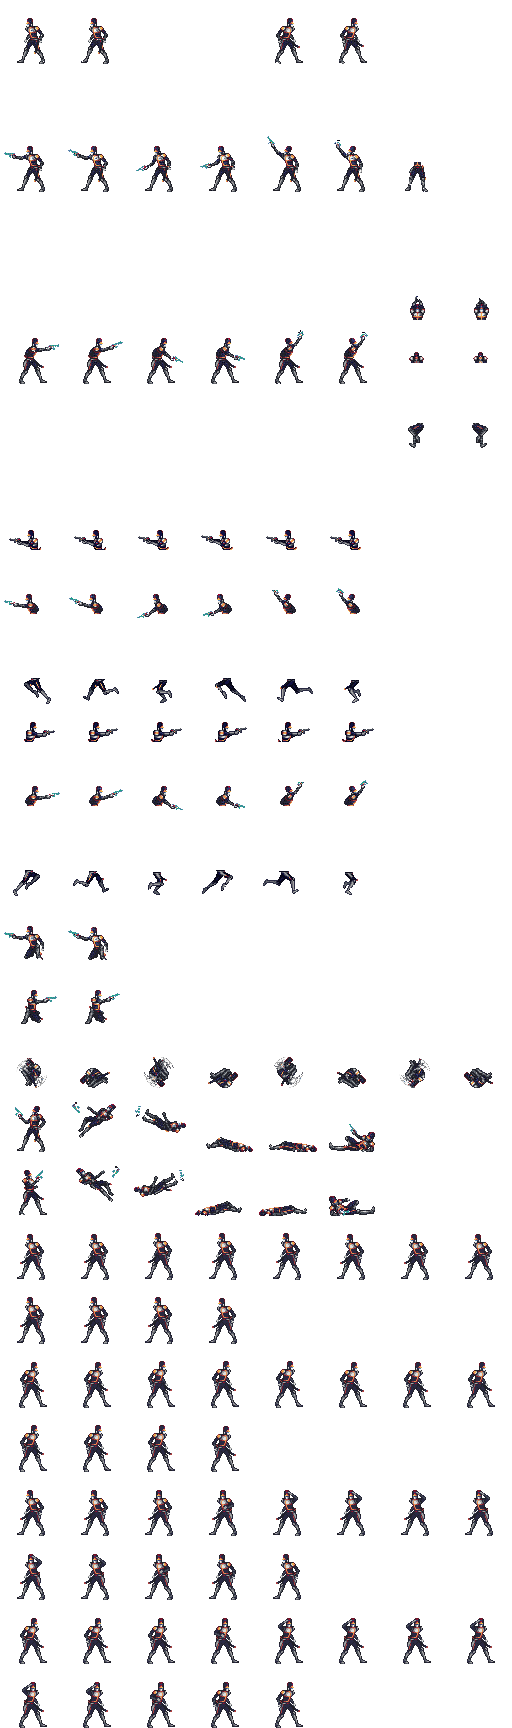
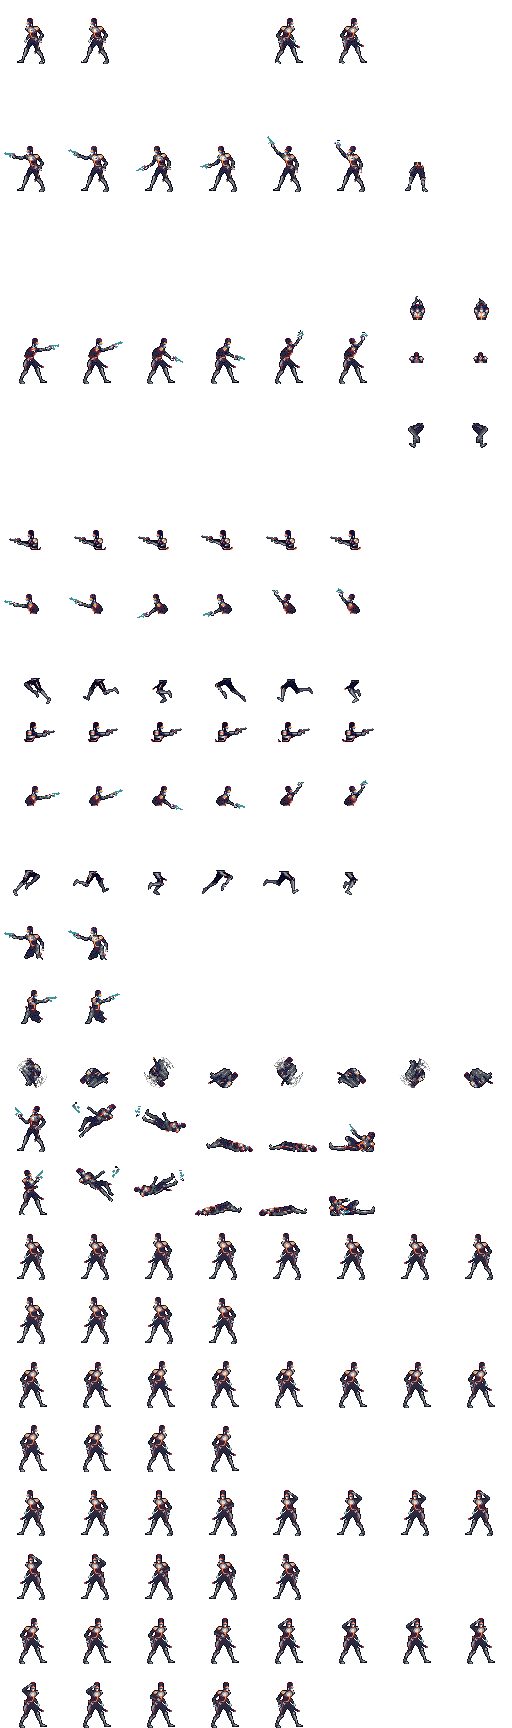
Unify Saber's sprite colors and clean clothing speckles

diff --git a/tools/saber_art.py b/tools/saber_art.py
@@ -1,0 +1,55 @@
+"""Shared source palette and color cleanup for all of Saber's sprite poses.
+
+Keep the source palette fixed: deriving it from the destination PNG made video
+recovery depend on whichever edits were already present in that file. Neutral
+gray (33,33,41) is common in the old reconstruction/idle footage, whereas the
+clean run uses (8,8,25) outlines and navy cloth. Resolve that gray by material
+before snapping every pose to the same final color treatment.
+"""
+from collections import Counter
+
+import numpy as np
+
+SOURCE_PALETTE = np.array([
+    (8, 8, 25), (16, 16, 66), (33, 33, 41), (41, 41, 66),
+    (49, 58, 107), (74, 82, 90), (90, 132, 173), (107, 107, 115),
+    (165, 165, 165), (222, 222, 222), (247, 247, 247),
+    (107, 25, 41), (173, 66, 66), (165, 8, 49),
+    (230, 148, 82), (239, 181, 82), (25, 165, 132),
+], dtype=float)
+
+NAVY = {(41, 41, 66), (16, 16, 66), (49, 58, 107)}
+SILVER = {(74, 82, 90), (107, 107, 115), (165, 165, 165),
+          (222, 222, 222), (247, 247, 247), (90, 132, 173)}
+RED = {(107, 25, 41), (173, 66, 66), (165, 8, 49)}
+
+
+def clean_colors(cell):
+    """Resolve dull outlines/interior gray flecks without changing alpha or pose.
+
+Read neighbors from the original cell so traversal order cannot affect color.
+Only the neutral gray is replaced: the run's actual navy shading, metal
+highlights, red accents, face, gun and black outline pixels remain intact.
+Three neighbors in the same material identify armor/red/cloth speckles;
+otherwise an interior dark pixel gets the native run's main navy cloth shade.
+"""
+    source = np.asarray(cell, dtype=np.uint8)
+    out = source.copy()
+    mask = source[:, :, 3] > 0
+    height, width = mask.shape
+    neutral = mask & np.all(source[:, :, :3] == (33, 33, 41), axis=2)
+    for y, x in np.argwhere(neutral):
+        edge = any(not (0 <= y + dy < height and 0 <= x + dx < width and mask[y + dy, x + dx])
+                   for dy, dx in ((-1, 0), (1, 0), (0, -1), (0, 1)))
+        if edge:
+            color = (8, 8, 25)
+        else:
+            nearby = [tuple(source[yy, xx, :3])
+                      for yy in range(max(0, y - 1), min(height, y + 2))
+                      for xx in range(max(0, x - 1), min(width, x + 2))
+                      if (yy, xx) != (y, x) and mask[yy, xx]]
+            votes = [[v for v in nearby if v in group] for group in (NAVY, SILVER, RED)]
+            pick = max(range(3), key=lambda i: len(votes[i]))
+            color = Counter(votes[pick]).most_common(1)[0][0] if len(votes[pick]) >= 3 else (41, 41, 66)
+        out[y, x, :3] = color
+    return out

diff --git a/tools/build_saber_idle.py b/tools/build_saber_idle.py
@@ -5,7 +5,8 @@ Usage: python3 tools/build_saber_idle.py [video.mp4]
 Requires ffmpeg, Pillow and NumPy. The clip is 10 fps, with native pixels
 enlarged 4x. Decode every frame without frame-rate conversion, take the median
 of each 4x4 block to suppress H.264 noise, key the green background, and snap
-foreground colors to Saber's existing palette. Keep the full 64x64 canvas:
+foreground colors to Saber's shared source palette, then apply the same outline
+and clothing cleanup as the run and older poses. Keep the full 64x64 canvas:
 cropping/recentering each pose would erase the breathing motion and foot anchor.
 Cells 0..151 are preserved; left-facing cells mirror the native right footage.
 """
@@ -17,6 +18,8 @@ import tempfile
 import numpy as np
 from PIL import Image
 
+from saber_art import SOURCE_PALETTE, clean_colors
+
 ROOT = Path(__file__).resolve().parent.parent
 
 
@@ -24,8 +27,7 @@ def main():
     video = Path(sys.argv[1]) if len(sys.argv) > 1 else ROOT / "video.twimg.com_tweet_video_DhBgC6xWsAAgACs.mp4"
     sheet_path = ROOT / "assets/saber.png"
     original = Image.open(sheet_path).convert("RGBA").crop((0, 0, 512, 1216))
-    pixels = np.asarray(original)
-    palette = np.unique(pixels[pixels[:, :, 3] != 0, :3], axis=0).astype(float)
+    palette = SOURCE_PALETTE
     sheet = Image.new("RGBA", (512, 27 * 64))
     sheet.paste(original, (0, 0))
     with tempfile.TemporaryDirectory() as tmp:
@@ -45,7 +47,7 @@ def main():
             rgba = np.zeros((64, 64, 4), dtype=np.uint8)
             rgba[~green, :3] = palette[nearest[~green]]
             rgba[~green, 3] = 255
-            recovered.append(Image.fromarray(rgba))
+            recovered.append(Image.fromarray(clean_colors(rgba)))
         # Frames 1..12 breathe; 13..25 raise the hand, salute, then lower it.
         # The remaining tail is another hold of the resting pose.
         for first, indices in ((152, range(12)), (184, range(12, 25))):

diff --git a/tools/clean_saber_colors.py b/tools/clean_saber_colors.py
@@ -1,0 +1,33 @@
+#!/usr/bin/env python3
+"""Give the complete Saber sheet the clean run's outline and clothing colors.
+
+Usage: python3 tools/clean_saber_colors.py [sheet.png]
+Idempotent; preserves all cell positions, silhouettes, and animation geometry.
+Run this after rebuilding the legacy sheet. The idle/run extractors already
+apply the same cleanup to their recovered video pixels.
+"""
+from pathlib import Path
+import sys
+
+import numpy as np
+from PIL import Image
+
+from saber_art import clean_colors
+
+
+def main():
+    path = Path(sys.argv[1]) if len(sys.argv) > 1 else Path(__file__).resolve().parent.parent / "assets/saber.png"
+    image = np.array(Image.open(path).convert("RGBA"))
+    original = image.copy()
+    for y in range(0, image.shape[0], 64):
+        for x in range(0, image.shape[1], 64):
+            image[y:y + 64, x:x + 64] = clean_colors(image[y:y + 64, x:x + 64])
+    assert np.array_equal(original[:, :, 3], image[:, :, 3])
+    assert np.array_equal(clean_colors(image), image), "Color cleanup must be idempotent"
+    Image.fromarray(image).save(path)
+    changed = np.any(original[:, :, :3] != image[:, :, :3], axis=2).sum()
+    print(f"Cleaned {changed} color pixels in {path}; alpha and sprite layout preserved")
+
+
+if __name__ == "__main__":
+    main()

diff --git a/tools/build_saber_run.py b/tools/build_saber_run.py
@@ -16,6 +16,8 @@ import tempfile
 import numpy as np
 from PIL import Image
 
+from saber_art import SOURCE_PALETTE, clean_colors
+
 ROOT = Path(__file__).resolve().parent.parent
 BOB = (0, 1, 2, 0, 1, 2)  # must match heroes.c
 
@@ -24,8 +26,7 @@ def main():
     video = Path(sys.argv[1]) if len(sys.argv) > 1 else ROOT / "video.twimg.com_tweet_video_DVAP6WHVAAAZKD3.mp4"
     sheet_path = ROOT / "assets/saber.png"
     sheet = Image.open(sheet_path).convert("RGBA")
-    pixels = np.asarray(sheet)
-    palette = np.unique(pixels[pixels[:, :, 3] != 0, :3], axis=0).astype(float)
+    palette = SOURCE_PALETTE
     with tempfile.TemporaryDirectory() as tmp:
         subprocess.run(["ffmpeg", "-v", "error", "-i", str(video), "-fps_mode", "passthrough",
                         str(Path(tmp) / "%02d.png")], check=True)
@@ -43,7 +44,7 @@ def main():
             rgba[~green, :3] = palette[nearest[~green]]
             rgba[~green, 3] = 255
             for side, torso_first, legs_first in ((0, 88, 104), (1, 64, 80)):
-                full = rgba[side * 64:(side + 1) * 64]
+                full = clean_colors(rgba[side * 64:(side + 1) * 64])
                 bob = BOB[index]
                 cut = 38 + bob
                 legs = full.copy()

diff --git a/README.md b/README.md
@@ -169,6 +169,10 @@ still selects his gun-ready art. Assets are looked up in
 Saber's six-frame run in both directions comes from `video.twimg.com_tweet_video_DVAP6WHVAAAZKD3.mp4`,
 recovered by `tools/build_saber_run.py` at 10 fps. The native torso and legs stay synchronized, with the clip's
 0/1/2 px body bob. Level shots keep the clip's gun-holding torso; diagonal shots use his aim/shoot overlays.
+All Saber poses share the run's near-black outlines and navy clothing colors. `tools/clean_saber_colors.py`
+removes the old reconstruction's neutral gray clothing speckles while preserving alpha, pose geometry,
+metal highlights and colored details. The video extractors use the same cleanup and fixed source palette
+from `tools/saber_art.py`, so rebuilding idle or run keeps their colors consistent with the other poses.
 
 ## Stage 2 — "The All Galaxy Grand Prix" (Mode-7)
 
